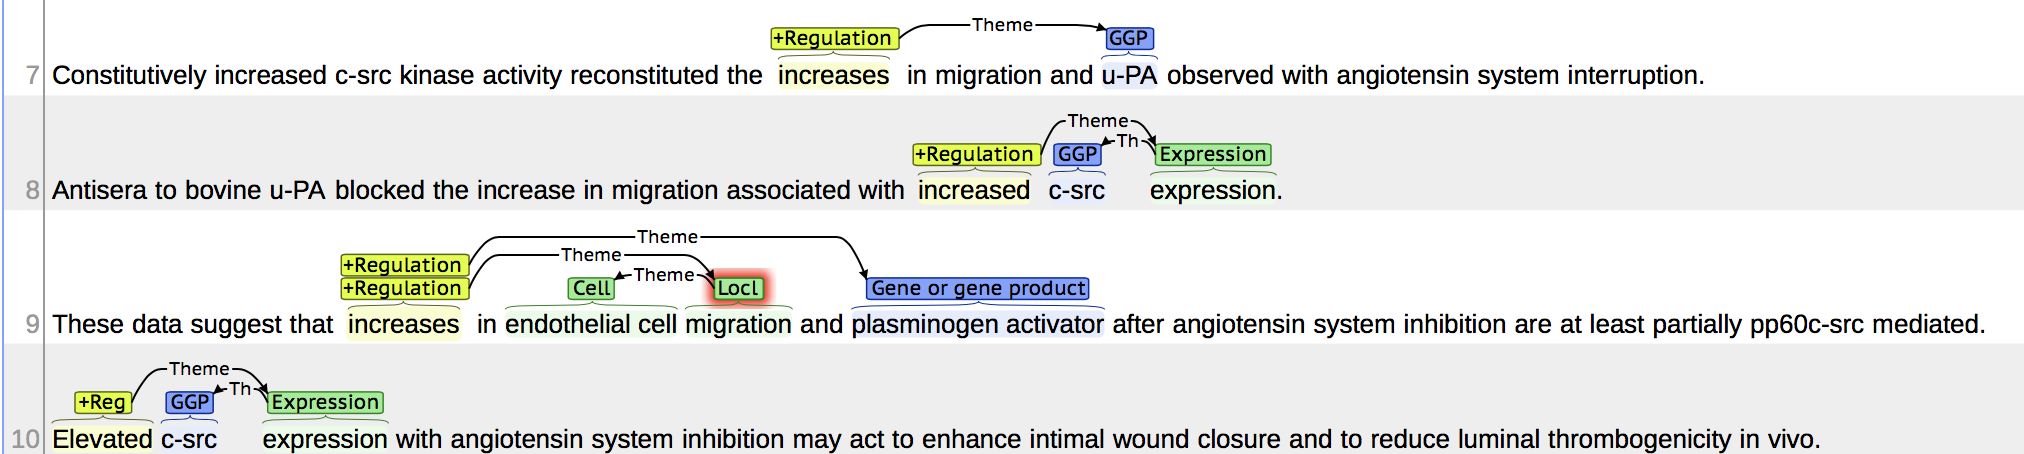
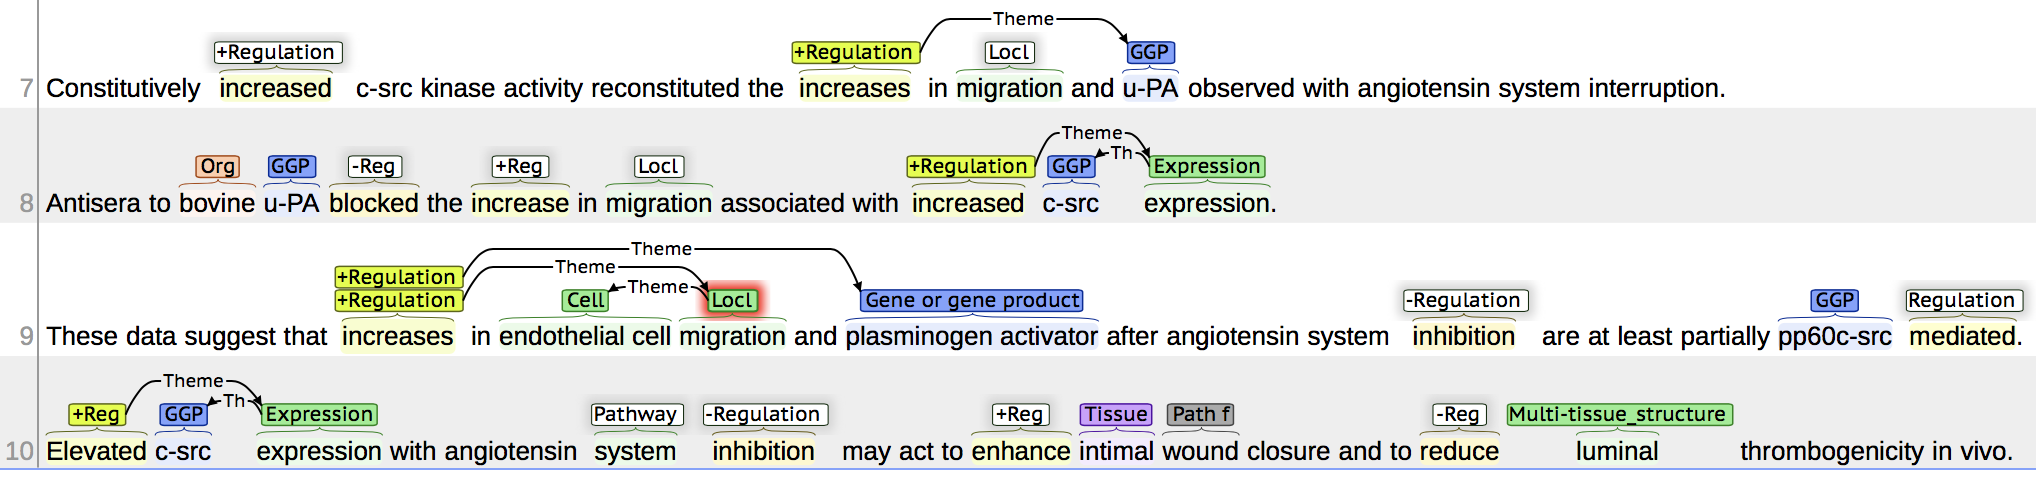
update sample

diff --git a/README.md b/README.md
@@ -156,16 +156,23 @@ sh pubmed.sh e2e pmcid PMC4353630 cg 0
 - Output: in brat format and [brat visualization](http://brat.nlplab.org)
 
 ```bash
-T9	Gene_or_gene_product 1184 1188	u-PA
-T23	Positive_regulation 1157 1166	increases
-E9	Positive_regulation:T23 Theme:T9
+T24	Organism 1248 1254	bovine
+T25	Gene_or_gene_product 1255 1259	u-PA
+T55	Positive_regulation 1107 1116	increased
+T57	Localization 1170 1179	migration
+T58	Negative_regulation 1260 1267	blocked
+...
 
-T10	Gene_or_gene_product 1320 1325	c-src
-T24	Gene_expression 1326 1336	expression
-E10	Gene_expression:T24 Theme:T10
+T23	Gene_or_gene_product 1184 1188	u-PA
+T56	Positive_regulation 1157 1166	increases
+E9	Positive_regulation:T56 Theme:T23
 
-T32	Positive_regulation 1310 1319	increased
-E24	Positive_regulation:T32 Theme:E10
+T26	Gene_or_gene_product 1320 1325	c-src
+T62	Gene_expression 1326 1336	expression
+E10	Gene_expression:T62 Theme:T26
+
+T61	Positive_regulation 1310 1319	increased
+E24	Positive_regulation:T61 Theme:E10
 ```
 
 <p align="center">
